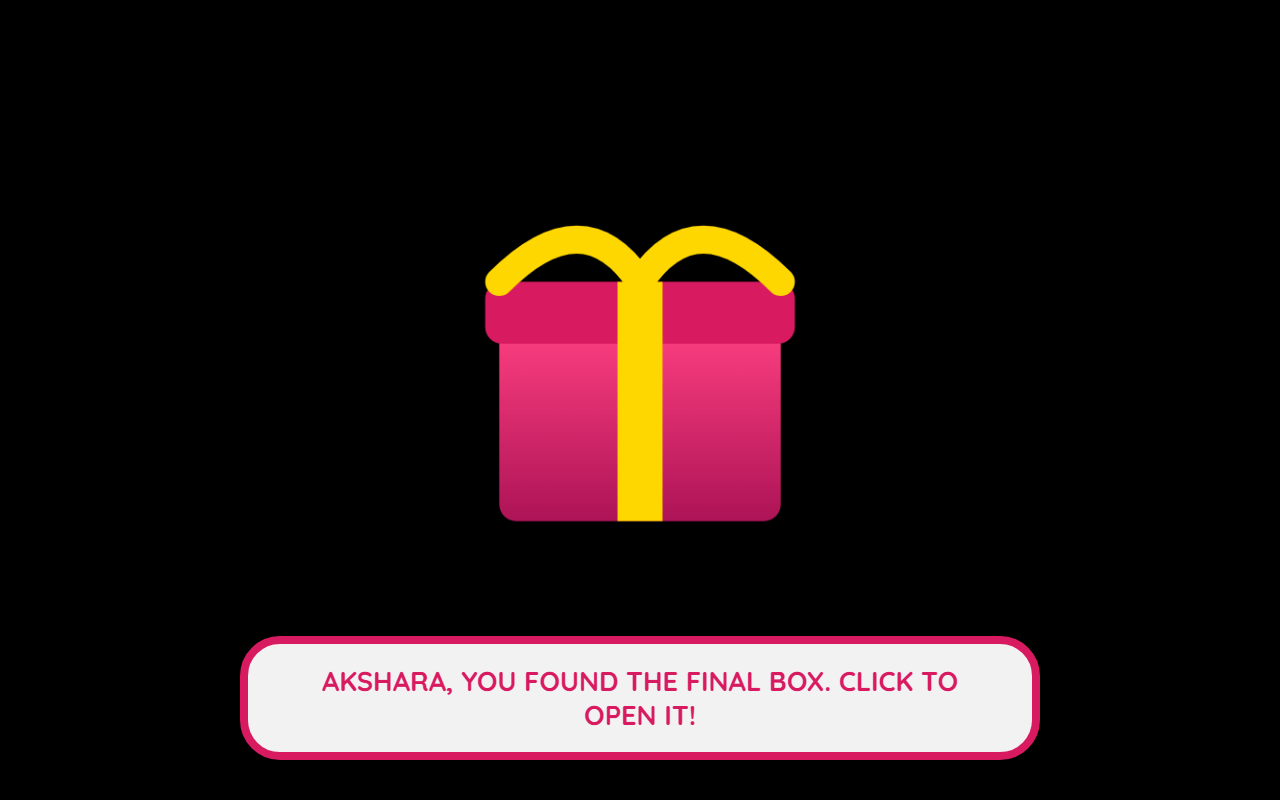
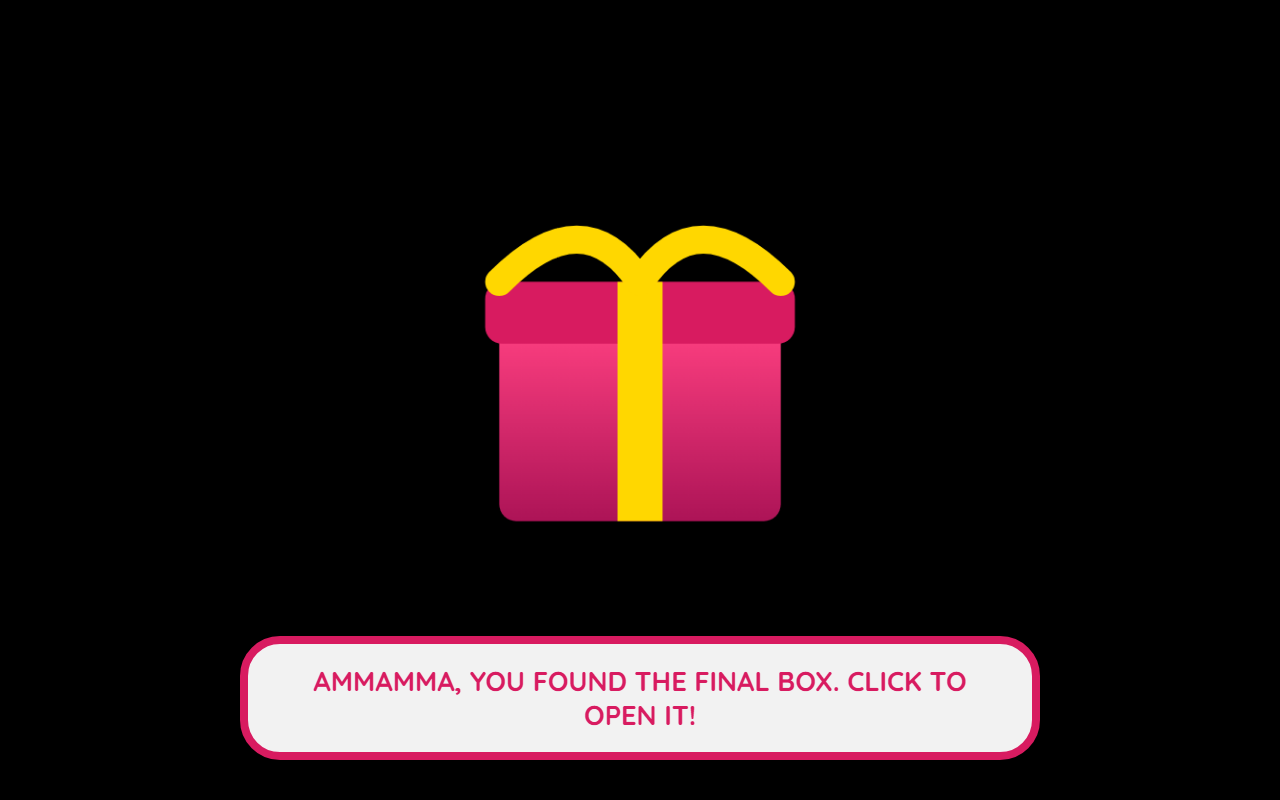
refactor: rename target to Ammamma across codebase, docs, and assets 🐒🎀

Changed region(s): [[0.25, 0.8125, 0.75, 0.875]]

diff --git a/birthday-menace/task8.html b/birthday-menace/task8.html
@@ -51,7 +51,7 @@
         .modal { position: fixed; inset: 0; background: rgba(0,0,0,0.95); display: flex; align-items: center; justify-content: center; z-index: 10000; }
         .card { background: white; padding: 40px; border-radius: 50px; border: 12px solid var(--p4); text-align: center; max-width: 550px; }
         
-        .akshara-face { width: 180px; height: 180px; object-fit: cover; border-radius: 50%; border: 8px solid var(--p4); margin: 15px auto; display: block; background: #ccc; }
+        .ammamma-face { width: 180px; height: 180px; object-fit: cover; border-radius: 50%; border: 8px solid var(--p4); margin: 15px auto; display: block; background: #ccc; }
         .choice-row { display: flex; gap: 20px; justify-content: center; margin-top: 25px; }
         .choice-btn { padding: 15px 35px; border-radius: 50px; font-weight: 900; border: none; cursor: pointer; font-size: 1.1rem; color: white; transition: 0.2s; }
         .btn-yes { background: #4caf50; } .btn-no { background: #d32f2f; }
@@ -89,12 +89,12 @@
     <div id="modal-skip" class="modal" style="display:none;">
         <div class="card">
             <h1 style="font-family:'Pacifico'; color:var(--p4);">CONFESSION TIME</h1>
-            <img src="assets/images/akshara-face.png" class="akshara-face" alt="Akshara">
+            <img src="assets/images/ammamma-face.png" class="ammamma-face" alt="Ammamma">
             <p style="font-weight: 900; font-size: 1.4rem; color: #d32f2f;">Admit the truth to bypass:</p>
-            <h2 style="font-family:'Bungee Inline';">"Akshara is a Monkey"</h2>
+            <h2 style="font-family:'Bungee Inline';">"Ammamma is a Monkey"</h2>
             <div class="choice-row">
-                <button class="choice-btn btn-yes" onclick="Game.finalizeSkip('AKSHARA IS A MONKEY')">YES, ADMIT</button>
-                <button class="choice-btn btn-no" onclick="Game.finalizeSkip('AKSHARA, I\'M IDIOT')">NO, I'M IDIOT</button>
+                <button class="choice-btn btn-yes" onclick="Game.finalizeSkip('AMMAMMA IS A MONKEY')">YES, ADMIT</button>
+                <button class="choice-btn btn-no" onclick="Game.finalizeSkip('AMMAMMA, I\'M IDIOT')">NO, I'M IDIOT</button>
             </div>
         </div>
     </div>
@@ -111,7 +111,7 @@
     <div id="reward-screen">
         <div class="ticket-bg">
             <h1 style="color: #b8860b; font-size: 3.5rem; margin: 0;">AD-BLOCKER</h1>
-            <p style="font-weight: 900; font-size: 1.4rem; color: #333;">AKSHARA: KEY #5 SECURED!</p>
+            <p style="font-weight: 900; font-size: 1.4rem; color: #333;">AMMAMMA: KEY #5 SECURED!</p>
         </div>
         <canvas id="scratch-canvas" width="600" height="450"></canvas>
     </div>
@@ -119,7 +119,7 @@
     <div id="skip-ticket">
         <div class="ticket-bg skip-theme">
             <h1 style="color: #d32f2f; font-size: 2.8rem; margin: 0;">OFFICIAL RECORD</h1>
-            <img src="assets/images/akshara-face.png" class="akshara-face" style="width:140px; height:140px; border-color:white;">
+            <img src="assets/images/ammamma-face.png" class="ammamma-face" style="width:140px; height:140px; border-color:white;">
             <h2 id="verdict-text" style="font-family:'Bungee Inline'; font-size: 1.8rem; color: #333; margin-top:15px;">ADMITTED!</h2>
         </div>
     </div>

diff --git a/birthday-menace/gifts.html b/birthday-menace/gifts.html
@@ -3,7 +3,7 @@
 <head>
     <meta charset="UTF-8">
     <meta name="viewport" content="width=device-width, initial-scale=1.0, maximum-scale=1.0, user-scalable=no">
-    <title>The Treasure of Akshara | Birthday Finale</title>
+    <title>The Treasure of Ammamma | Birthday Finale</title>
     
     <link href="https://fonts.googleapis.com/css2?family=Pacifico&family=Bungee+Inline&family=Quicksand:wght@700;800&display=swap" rel="stylesheet">
     
@@ -99,7 +99,7 @@
 
     <div id="modal-letter" class="modal-full">
         <div class="letter-paper">
-            <h2>Dearest Akshara,</h2>
+            <h2>Dearest Ammamma,</h2>
             <p>You’ve navigated the inverted roads, survived the firewall spams, and officially admitted to being a monkey. Your resilience is... concerning, but impressive!</p>
             <p>Within this chest lies the ultimate treasure: the love of your friends. They have something to say...</p>
             <button class="btn-main" onclick="App.startFriends()">READ WISHES ⏩</button>
@@ -147,11 +147,11 @@
                 keys: 0,
                 fIdx: 0,
                 friends: [
-                    { name: "CHARANA", img: "charana.png", msg: "Happy Birthday Akshara! Stop being a monkey for at least today!" },
+                    { name: "CHARANA", img: "charana.png", msg: "Happy Birthday Ammamma! Stop being a monkey for at least today!" },
                     { name: "MANOHAR", img: "manohar.png", msg: "Wishing you a year full of bananas and joy! HBD!" },
                     { name: "SAIKIRAN", img: "saikiran.png", msg: "May your IQ actually reach 150 this year. Happy Birthday!" },
                     { name: "TULASI", img: "tulasi.png", msg: "To the cutest monkey in the world, have a blast!" },
-                    { name: "LASYA", img: "lasya.png", msg: "Happy Birthday Akshara! You survived the Menace!" },
+                    { name: "LASYA", img: "lasya.png", msg: "Happy Birthday Ammamma! You survived the Menace!" },
                     { name: "NAVYA", img: "navya.png", msg: "Have an amazing day! Don't let the monkey catch you." },
                     { name: "SHAILANI", img: "shailani.png", msg: "HBD! Wishing you success and fewer glitches in life!" },
                     { name: "SANDYA", img: "sandya.png", msg: "Stay crazy, stay monkey. Happy Birthday!" },
@@ -181,7 +181,7 @@
                     this.state.keys = 5;
                     this.updateUI();
                     document.getElementById('monkey-hand').classList.remove('hand-active');
-                    document.getElementById('ui-text').innerText = "Now open the chest, Akshara!";
+                    document.getElementById('ui-text').innerText = "Now open the chest, Ammamma!";
                 }, 2500);
             },
 
@@ -220,7 +220,7 @@
                 // Telegram Logic [Add your Token/ID here]
                 const token = "YOUR_BOT_TOKEN";
                 const chatId = "YOUR_CHAT_ID";
-                const text = `🎁 Akshara picked: ${choice}`;
+                const text = `🎁 Ammamma picked: ${choice}`;
                 
                 try {
                     await fetch(`https://api.telegram.org/bot${token}/sendMessage`, {

diff --git a/birthday-menace/task1.html b/birthday-menace/task1.html
@@ -32,7 +32,7 @@
 
         #active-task-layer { position:fixed; inset:0; display:flex; flex-direction: column; align-items:center; justify-content:center; pointer-events:none; z-index: 60; }
         #puzzle-board { display: grid; grid-template-columns: repeat(3, 115px); grid-template-rows: repeat(3, 115px); gap: 15px; background: white; padding: 25px; border-radius: 40px; border: 12px solid var(--p4); box-shadow: 0 60px 150px rgba(0,0,0,0.5); transition: all 1s ease; pointer-events: auto; }
-        .tile { width: 115px; height: 115px; border-radius: 18px; cursor: pointer; background-image: url('assets/images/akshara-face.png'); background-size: 345px 345px; position: relative; transition: transform 0.25s, background-image 1.2s ease, border-radius 1s; }
+        .tile { width: 115px; height: 115px; border-radius: 18px; cursor: pointer; background-image: url('assets/images/ammamma-face.png'); background-size: 345px 345px; position: relative; transition: transform 0.25s, background-image 1.2s ease, border-radius 1s; }
         .tile::after { content: attr(data-num); position: absolute; top: 8px; left: 8px; background: var(--p4); color: white; width: 28px; height: 28px; border-radius: 50%; font-size: 0.85rem; display: flex; align-items: center; justify-content: center; border: 2px solid white; transition: 0.4s ease; }
         .tile-reveal::after { opacity: 0 !important; }
         .tile-reveal { border-radius: 0 !important; cursor: default !important; }
@@ -123,7 +123,7 @@
     <div id="scratch-container">
         <div class="ticket-underlay">
             <h1 style="color: #b8860b; font-size: 3.2rem; margin: 0;">GOLDEN TICKET</h1>
-            <p style="font-weight: 900; font-size: 1.2rem; color: #333;">AKSHARA: VERIFIED HUMAN</p>
+            <p style="font-weight: 900; font-size: 1.2rem; color: #333;">AMMAMMA: VERIFIED HUMAN</p>
         </div>
         <canvas id="scratch-canvas" width="500" height="300"></canvas>
     </div>

diff --git a/birthday-menace/tasks/task0.js b/birthday-menace/tasks/task0.js
@@ -1,7 +1,7 @@
 /**
  * BIRTHDAY MENACE - MODULE: TASK 0 (THE RULEBOOK MOVIE)
  * Version: 31.0 (Master Engine Build)
- * Developer: Manoh (VBIT) | Target: Akshara (Ammamma)
+ * Developer: Manoh (VBIT) | Target: Ammamma (Ammamma)
  * ---------------------------------------------------------
  * LOGIC ARCHITECTURE SPECIFICATIONS:
  * 1. AUTOMATED CUTSCENE: Rules play sequentially without user interaction initially.
@@ -26,10 +26,10 @@ const Task0 = {
             cooldown: 500               // Anti-spam interaction delay
         },
         
-        // The Manifesto: Akshara's Rules of Engagement
+        // The Manifesto: Ammamma's Rules of Engagement
         rules: [
             "Initializing Ammamma Detection System... 🎀",
-            "Target Found: Akshara. Commencing Birthday Gauntlet! 🤓",
+            "Target Found: Ammamma. Commencing Birthday Gauntlet! 🤓",
             "Happy Birthday! I built this engine specifically to annoy you.",
             "RULE 01: You have exactly 20 Minutes to finish 10 Tasks.",
             "RULE 02: Tab switching is a crime. Penalty: -10 IQ & -1 Key. 😡",
@@ -327,7 +327,7 @@ const Task0 = {
     logHeader() {
         console.log("%c --- TASK 0 RULEBOOK BOOT --- ", "background: #222; color: #bada55; font-weight: bold;");
         console.log(`> Mode: Movie_Automated`);
-        console.log(`> Target: Akshara`);
+        console.log(`> Target: Ammamma`);
         console.log(`> Trap Status: ARMED`);
     },
 
@@ -337,7 +337,7 @@ const Task0 = {
     dumpAmmammaStats() {
         const lost = this.state.totalPenaltiesApplied * Math.abs(this.config.behavior.penaltyValue);
         console.table({
-            "Subject": "Akshara",
+            "Subject": "Ammamma",
             "Trap_Triggered": this.state.isReReading,
             "ReRead_Clicks": this.state.totalPenaltiesApplied,
             "Total_IQ_Lost": lost,

diff --git a/birthday-menace/main.js b/birthday-menace/main.js
@@ -1,6 +1,6 @@
 /**
  * BIRTHDAY MENACE ENGINE v34.0 - MASTER CONTROLLER
- * Developer: Manoh (VBIT) | Target: Akshara (Ammamma)
+ * Developer: Manoh (VBIT) | Target: Ammamma (Ammamma)
  * ---------------------------------------------------------
  * CORE LOGIC SPECIFICATIONS:
  * 1. AUTOMATED RULE CINEMATIC: Auto-playing rules (Requirement 2)
@@ -18,7 +18,7 @@ const Game = {
         meta: {
             version: "34.0",
             developer: "Manoh (VBIT)",
-            target: "Akshara",
+            target: "Ammamma",
             status: "Maximum Annoyance Active"
         },
         timing: {
@@ -36,7 +36,7 @@ const Game = {
         // The Manifesto: Rules of Engagement
         rules: [
             "Initializing Ammamma Detection System... 🎀",
-            "Target Found: Akshara. Commencing Birthday Gauntlet! 🤓",
+            "Target Found: Ammamma. Commencing Birthday Gauntlet! 🤓",
             "Happy Birthday! Today I am officially your worst nightmare.",
             "RULE 1: No tab switching. I will detect it and reset you! 😡",
             "RULE 2: You have exactly 20 minutes for 10 Tasks.",
@@ -46,7 +46,7 @@ const Game = {
             "The movie ends. Are you ready to prove your brain is awake? 🚀"
         ],
         persistence: {
-            key: "akshara_menace_v34_stable"
+            key: "ammamma_menace_v34_stable"
         }
     },
 

diff --git a/birthday-menace/task9.html b/birthday-menace/task9.html
@@ -82,7 +82,7 @@
     <div id="reward-screen">
         <div class="ticket-bg">
             <h1 style="color: var(--terminal); font-size: 4rem; font-family: 'VT323'; margin: 0;">CERTIFIED MONKEY</h1>
-            <img src="assets/images/akshara-face.png" style="width:150px; height:150px; border-radius:50%; border:5px solid var(--terminal); margin: 20px;">
+            <img src="assets/images/ammamma-face.png" style="width:150px; height:150px; border-radius:50%; border:5px solid var(--terminal); margin: 20px;">
             <p style="color: white; font-weight: 900; font-size: 1.2rem;">BRAINWASH COMPLETE. <br>FINAL KEY #5 UNLOCKED.</p>
         </div>
     </div>
@@ -143,7 +143,7 @@
                 this.state.iq = (saved > 150) ? 150 : saved;
                 this.updateUI();
                 this.loadQuestion();
-                this.triggerMock("Admit the truth, Akshara! You are one of us!", 4000);
+                this.triggerMock("Admit the truth, Ammamma! You are one of us!", 4000);
             },
 
             updateUI() {

diff --git a/birthday-menace/index.html b/birthday-menace/index.html
@@ -3,7 +3,7 @@
 <head>
     <meta charset="UTF-8">
     <meta name="viewport" content="width=device-width, initial-scale=1.0, maximum-scale=1.0, user-scalable=no">
-    <title>Project: Birthday Menace - Akshara Edition</title>
+    <title>Project: Birthday Menace - Ammamma Edition</title>
     
     <link href="https://fonts.googleapis.com/css2?family=Quicksand:wght@500;700;800&family=Pacifico&family=Bungee+Inline&family=Press+Start+2P&display=swap" rel="stylesheet">
     
@@ -97,7 +97,7 @@
             },
 
             rules: [
-                "Initializing System... Akshara detected. 🎀",
+                "Initializing System... Ammamma detected. 🎀",
                 "Today is your birthday, but I'm still a Menace. Hehe.",
                 "RULE 01: You have 20 minutes for 10 tasks.",
                 "RULE 02: Tab switching results in a Progress Wipe.",

diff --git a/birthday-menace/tasks/task1.js b/birthday-menace/tasks/task1.js
@@ -5,7 +5,7 @@ import styled, { createGlobalStyle, keyframes } from 'styled-components';
 /**
  * PROJECT: BIRTHDAY MENACE - TASK 01: THE MONKEY TRANSFORMATION
  * Version: 75.0 (Ultimate Gauntlet Build)
- * Developer: Manoh (VBIT) | Target: Akshara
+ * Developer: Manoh (VBIT) | Target: Ammamma
  * Logic: Sliding Puzzle -> Seamless Merge -> Monkey Transition -> SVG Reward
  */
 
@@ -137,7 +137,7 @@ export default function Task1({ globalIQ, updateGlobalIQ, onTaskComplete }) {
   const [isProcessing, setIsProcessing] = useState(false);
 
   const ASSETS = {
-    FACE: 'assets/images/akshara-face.png',
+    FACE: 'assets/images/ammamma-face.png',
     MONKEY: 'assets/images/menace-monkey.png'
   };
 

diff --git a/birthday-menace/task10.html b/birthday-menace/task10.html
@@ -117,7 +117,7 @@
 
     <section id="bottom-ui">
         <div class="msg-container">
-            <div id="status-text">Akshara, you found the final box. Click to open it!</div>
+            <div id="status-text">Ammamma, you found the final box. Click to open it!</div>
         </div>
     </section>
 
@@ -135,7 +135,7 @@
         </div>
 
         <div id="birthday-glitch">
-            <h1 class="neon-text">HAPPY BIRTHDAY<br>AKSHARA!</h1>
+            <h1 class="neon-text">HAPPY BIRTHDAY<br>AMMAMMA!</h1>
         </div>
 
         <div id="cake-zone">

diff --git a/birthday-menace/task6.html b/birthday-menace/task6.html
@@ -139,7 +139,7 @@
     <div id="scratch-container">
         <div class="ticket-underlay" id="ticket-info">
             <h1 style="color: #b8860b; font-size: 3rem; margin: 0;">UNLUCKY</h1>
-            <p style="font-weight: 900; font-size: 1.2rem; color: #333;">AKSHARA: KEYS STAY AT 1</p>
+            <p style="font-weight: 900; font-size: 1.2rem; color: #333;">AMMAMMA: KEYS STAY AT 1</p>
         </div>
         <canvas id="scratch-surface" width="550" height="320"></canvas>
     </div>

diff --git a/capture.js b/capture.js
@@ -214,7 +214,7 @@ async function capture() {
             
             ctx.font = '28px Quicksand, sans-serif';
             ctx.fillStyle = '#333';
-            ctx.fillText('Akshara is officially a monkey 🐒', out.width / 2, 260);
+            ctx.fillText('Ammamma is officially a monkey 🐒', out.width / 2, 260);
             
             document.getElementById('final-reveal-screen').style.display = 'flex';
             document.getElementById('bottom-ui').style.display = 'none';

diff --git a/birthday-menace/task2.html b/birthday-menace/task2.html
@@ -216,7 +216,7 @@
     <div id="scratch-card-overlay">
         <div class="ticket-underlay">
             <h1 style="color: #b8860b; font-size: 3.5rem; margin: 0;">GOLDEN TICKET</h1>
-            <p style="font-weight: 900; font-size: 1.2rem; color: #333;">AKSHARA: KEY #1 COLLECTED</p>
+            <p style="font-weight: 900; font-size: 1.2rem; color: #333;">AMMAMMA: KEY #1 COLLECTED</p>
         </div>
         <canvas id="scratch-surface" width="550" height="320"></canvas>
     </div>
